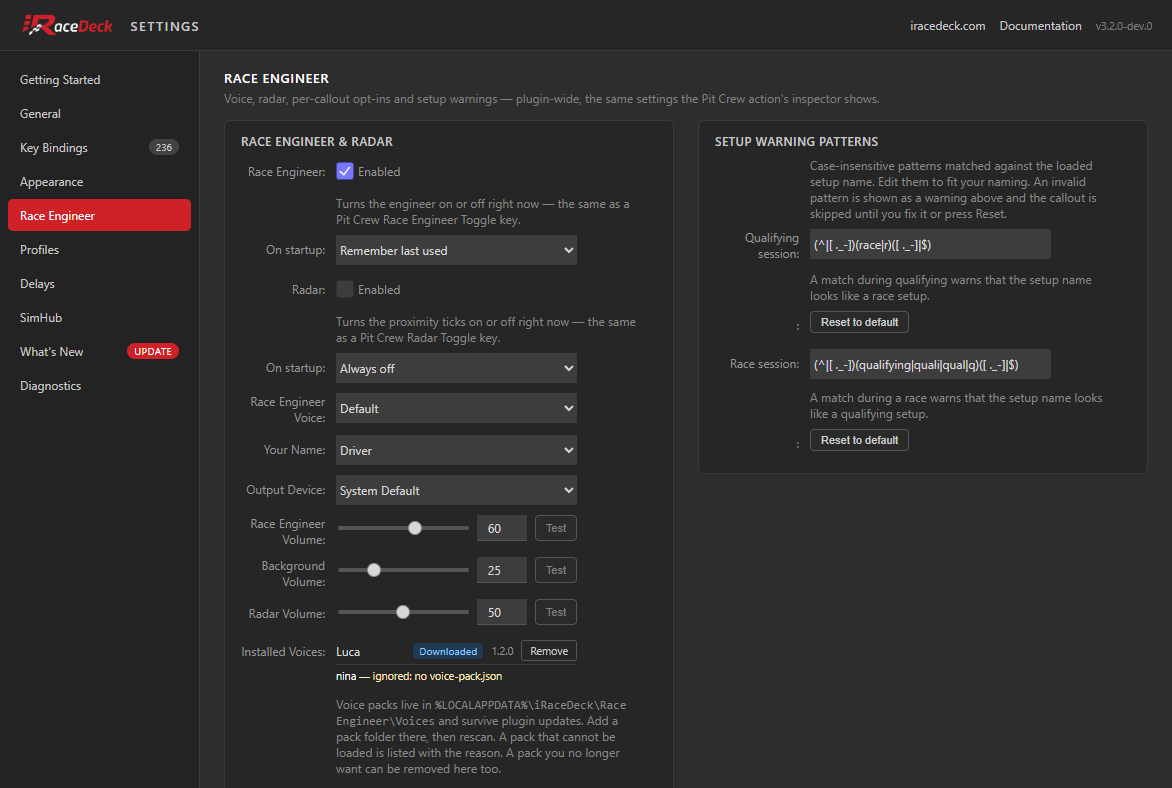
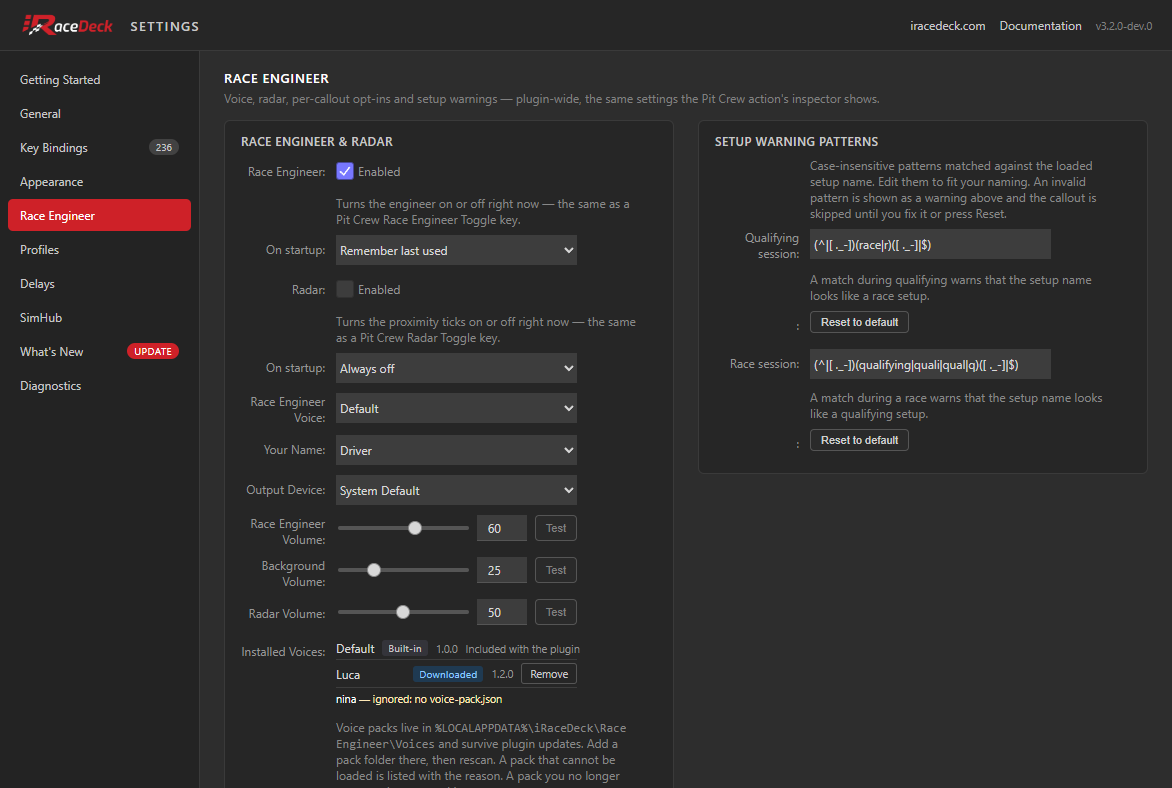
fix(voice-packs): one pack, one row — list the seeded voice and drop installed packs from the download list (#1100)
Two findings from Niklas's manual test, on the same card, fixed together
because they are the same defect seen from two sides: a pack could appear
twice, or not at all, and neither matched what the folder actually held.

THE SEEDED PACK WAS INVISIBLE. On every install the bundled `default` voice is
seeded into the packs folder, and the scanner then dropped it entirely: its one
voice belongs to the plugin's own audio, so `declared` came out empty and the
pack fell through `if (declared.length === 0) continue` — neither listed nor
reported. The card read "No voice packs installed" while the button beside it
opened a folder containing exactly that 8 MB pack. A user meets that
contradiction on their first screen, and the button is the one control
guaranteed to expose it.

It is listed now, with NO voices and NO clips. That is not a special case but
the plain reading of the field: `voices` is what a pack ACTUALLY provides after
collisions are resolved, and here the honest answer is nothing. An empty clip
list is inert rather than merely harmless — `normalizeRoots` turns it into an
empty allow-list, where an ABSENT list would have meant unrestricted.

LISTING A PACK AND CONTRIBUTING A VOICE ARE TWO DIFFERENT JOBS. `default` is
already in the voice dropdown from the bundle; registering it again would give
the user two identically named rows with nothing to tell them apart. Pinned by
a test rather than left to be noticed, and asserted against BOTH publishers'
[…]

Changed region(s): [[0.2765, 0.7919, 0.5529, 1.0]]

diff --git a/packages/pi-components/src/components/voice-pack-catalog.test.ts b/packages/pi-components/src/components/voice-pack-catalog.test.ts
@@ -83,18 +83,27 @@ describe("ird-voice-pack-catalog", () => {
       expect(el.querySelectorAll(".ird-vpc-row")).toHaveLength(0);
     });
 
-    it("renders one row per catalog entry", () => {
+    it("renders one row per catalog entry the user can act on", () => {
       const { el, mock } = mount();
 
       publish(
         mock,
         status({
           state: "ok",
-          packs: [offer({ id: "luca", label: "Luca" }), offer({ id: "nina", label: "Nina", verdict: "installed" })],
+          packs: [
+            offer({ id: "luca", label: "Luca" }),
+            offer({ id: "nina", label: "Nina", verdict: "update" }),
+            // Installed, and therefore listed under Installed Voices instead
+            // of here — one pack, one row (#1100).
+            offer({ id: "otto", label: "Otto", verdict: "installed" }),
+          ],
         }),
       );
 
       expect(el.querySelectorAll(".ird-vpc-row")).toHaveLength(2);
+      expect(el.textContent).toContain("Luca");
+      expect(el.textContent).toContain("Nina");
+      expect(el.textContent).not.toContain("Otto");
     });
   });
 
@@ -135,13 +144,59 @@ describe("ird-voice-pack-catalog", () => {
       expect(mock.send).toHaveBeenCalledWith("sendToPlugin", { event: "voicePackInstall", id: "luca" });
     });
 
-    it("shows no action for a pack that is already installed at this hash", () => {
+    // "Available to Download" lists what you can act on (#1100). An installed
+    // pack is represented under Installed Voices — with its provenance — so
+    // listing it here as well was the same pack twice on one card.
+    it("does not list a pack that is already installed at this hash", () => {
       const { el, mock } = mount();
 
       publish(mock, status({ state: "ok", packs: [offer({ verdict: "installed" })] }));
 
+      expect(el.querySelectorAll(".ird-vpc-row")).toHaveLength(0);
       expect(el.querySelector(".ird-vpc-button")).toBeNull();
-      expect(el.querySelector(".ird-vpc-installed")?.textContent).toBe("Installed");
+    });
+
+    // The whole catalog installed is the NORMAL state on a stage-2 install,
+    // where `default` is the only published pack — so it must not read as a
+    // fault. Distinct from both "we publish nothing" and the unreachable
+    // message, which are different conditions the user can also reach.
+    it("says the user has everything, rather than sounding like a failure, when every pack is installed", () => {
+      const { el, mock } = mount();
+
+      publish(mock, status({ state: "ok", packs: [offer({ verdict: "installed" })] }));
+
+      expect(el.textContent).toContain("You have every voice we publish");
+      expect(el.textContent).not.toContain("No downloadable voice packs");
+      expect(el.textContent).not.toContain("Couldn't check");
+    });
+
+    // The carve-out: the catalog is re-read after every install, so a verdict
+    // that flips to `installed` while the swap is still running must not take
+    // the row — and its progress, or its error and Retry — off the screen.
+    it("keeps an installed pack listed while its install is still in flight", () => {
+      const { el, mock } = mount();
+
+      publish(
+        mock,
+        status({ state: "ok", packs: [offer({ id: "luca", verdict: "installed" })] }, { luca: { phase: "swapping" } }),
+      );
+
+      expect(el.querySelectorAll(".ird-vpc-row")).toHaveLength(1);
+    });
+
+    it("keeps an installed pack listed when its install failed, so Retry survives", () => {
+      const { el, mock } = mount();
+
+      publish(
+        mock,
+        status(
+          { state: "ok", packs: [offer({ id: "luca", verdict: "installed" })] },
+          { luca: { phase: "failed", error: "boom" } },
+        ),
+      );
+
+      expect(el.querySelectorAll(".ird-vpc-row")).toHaveLength(1);
+      expect(el.textContent).toContain("Retry");
     });
 
     it("lists an unsupported pack with an explanation naming the version needed, rather than hiding it", () => {

diff --git a/packages/pi-components/src/components/voice-pack-catalog.ts b/packages/pi-components/src/components/voice-pack-catalog.ts
@@ -107,6 +107,39 @@ type VoicePackStatus = {
 
 const EMPTY_STATUS: VoicePackStatus = { catalog: { state: "unknown" }, installs: {} };
 
+/**
+ * What "Available to Download" lists: what the user can ACT on (#1100).
+ *
+ * `install`, `update` and `unsupported` stay; `installed` does not. The section
+ * used to list the whole catalog with a status attached, which is a different
+ * thing from what its name promises — and with the seeded `default` now listed
+ * under Installed Voices, an installed pack appeared in both places at once.
+ * One pack, one row, in the section that describes it.
+ *
+ * Deliberately a RENDER-layer rule, not a verdict change. The reasoning above
+ * `isProvidedByBundle` in deck-core — that a bundle-provided pack reads as
+ * `installed` rather than taking a verdict of its own, because a renderer that
+ * does not know a verdict drops the row — is about the verdict vocabulary and
+ * still holds. This filters what one surface shows; it does not touch what the
+ * plugin decided.
+ *
+ * `update` deliberately survives: a newer version genuinely is something to
+ * download, so the one case where an installed pack must stay visible is
+ * preserved by the rule itself rather than by an exception to it.
+ *
+ * An in-flight or failed install keeps its row whatever the verdict says. The
+ * catalog is re-read after every install, so a pack whose verdict flips to
+ * `installed` mid-swap would otherwise vanish and take its progress — or its
+ * error and Retry button — off the screen with it.
+ *
+ * Nothing here is special-cased to `default`, so stage 3 needs no edit: once
+ * nothing is bundled, that pack is either not installed (and appears as
+ * `install`) or installed (and appears under Installed Voices like any other).
+ */
+function isDownloadable(offer: VoicePackOffer, install: VoicePackInstallState | undefined): boolean {
+  return offer.verdict !== "installed" || install !== undefined;
+}
+
 function isRecord(value: unknown): value is Record<string, unknown> {
   return typeof value === "object" && value !== null;
 }
@@ -360,17 +393,28 @@ export class VoicePackCatalog extends HTMLElement {
       return;
     }
 
-    if (status.catalog.packs.length === 0) {
+    const offers = status.catalog.packs.filter((offer) => isDownloadable(offer, status.installs[offer.id]));
+
+    if (offers.length === 0) {
       const message = document.createElement("div");
 
       message.className = "ird-vpc-message";
-      message.textContent = "No downloadable voice packs right now.";
+      // THREE different empty states, deliberately worded apart, because the
+      // user can reach all three and they mean entirely different things. The
+      // "unknown" branch above says we could not check. These two say we did:
+      // either we publish nothing at all, or you already have all of it. Saying
+      // "nothing right now" to somebody who simply owns everything would read
+      // as a fault, which is the message directly above this one.
+      message.textContent =
+        status.catalog.packs.length === 0
+          ? "No downloadable voice packs right now."
+          : "You have every voice we publish.";
       this.list.appendChild(message);
 
       return;
     }
 
-    for (const offer of status.catalog.packs) {
+    for (const offer of offers) {
       this.list.appendChild(this.renderRow(offer, status.installs[offer.id]));
     }
   }

diff --git a/packages/deck-core/src/voice-pack-scanner.test.ts b/packages/deck-core/src/voice-pack-scanner.test.ts
@@ -1,5 +1,6 @@
 import { describe, expect, it } from "vitest";
 
+import { voiceDisplayLabels } from "./voice-labels.js";
 import { scanVoicePacks, type VoicePackFileSystem } from "./voice-pack-scanner.js";
 
 const ROOT = "/packs";
@@ -445,13 +446,51 @@ describe("scanVoicePacks and the bundled seed (#1100)", () => {
       fs: fakeFs({ default: { manifest: bundled, install, clips: ["voice/default/flags/blue-01.mp3"] } }),
     });
 
-  it("says nothing about a pack we seeded from the plugin's own bundle", () => {
+  it("lists the pack we seeded from the plugin's own bundle, providing nothing", () => {
     const result = scan(seedRecord);
 
-    // Still dropped — the bundle owns the id, and that was never in question.
-    expect(result.packs).toEqual([]);
+    // LISTED since #1100. It is on disk, and a card reading "No voice packs
+    // installed" beside a button that opens a folder containing exactly this
+    // pack was a contradiction the user met on their first screen. Its voice is
+    // still dropped — the bundle owns that id, and that was never in question —
+    // so it is listed as providing nothing, which is what `voices` means.
+    expect(result.packs).toHaveLength(1);
+    expect(result.packs[0]).toMatchObject({
+      id: "default",
+      label: "Default",
+      version: "3.2.0",
+      voices: [],
+      clips: [],
+      provenance: "bundled-seed",
+    });
     // The point of the exemption: no report, because nothing is wrong.
     expect(result.problems).toEqual([]);
+  });
+
+  // THE TRAP, pinned rather than left to be noticed later (#1100).
+  //
+  // `default` is ALREADY in the voice dropdown, provided by the plugin's own
+  // audio. Listing the seeded pack must not also register its voice, or the
+  // dropdown gains a SECOND "Default": two rows, one voice, and nothing for the
+  // user to tell them apart. Listing a pack and contributing a voice are two
+  // different jobs and this pack must only do the first.
+  //
+  // Asserted against BOTH publishers' actual inputs rather than against the
+  // scanner's output shape alone, because they derive differently and a change
+  // could break one without the other: `_voiceLabels` is built by
+  // `voiceDisplayLabels` from the installed packs — which now include this one,
+  // where they did not before — and `_raceEngineerVoices` is built from the
+  // clip paths packs contribute to the merged manifest.
+  it("contributes nothing to either published voice list", () => {
+    const result = scan(seedRecord);
+
+    // `_voiceLabels`: the seed is in this input now and must add no entry. A
+    // `default` key here would rename the bundled voice in the dropdown.
+    expect(voiceDisplayLabels(result.packs)).toEqual({});
+
+    // `_raceEngineerVoices`: derived from the clips packs contribute. One clip
+    // under `voice/default/` would put a second `default` in the list.
+    expect(result.packs.flatMap((pack) => pack.clips)).toEqual([]);
   });
 
   // The hostile cases, and the reason the exemption is written as narrowly as

diff --git a/packages/pi-components/src/components/voice-pack-list.ts b/packages/pi-components/src/components/voice-pack-list.ts
@@ -252,6 +252,9 @@ export class VoicePackList extends HTMLElement {
       ird-voice-pack-list .ird-vp-label { flex: 1; }
       ird-voice-pack-list .ird-vp-version { color: #969696; font-size: 8pt; }
       ird-voice-pack-list .ird-vp-empty { color: #969696; font-size: 9pt; padding: 3px 0; }
+      /* Stands where a Remove button would be on a bundled seed (#1100). Muted
+         and unclickable-looking on purpose: it is a statement, not a control. */
+      ird-voice-pack-list .ird-vp-note { flex: none; color: #969696; font-size: 8pt; }
       /* Provenance badge (#1100) — informational, not a warning: colours stay
          calm and distinct rather than using red/amber alarm colours anywhere. */
       ird-voice-pack-list .ird-vp-badge {
@@ -453,6 +456,13 @@ export class VoicePackList extends HTMLElement {
     // Only when the scan found nothing at all. A directory holding one
     // unloadable pack is not empty, and calling it empty would hide the very
     // row that explains the silence.
+    //
+    // Rarer since #1100 listed the bundled seed, but NOT dead, and the wording
+    // is still true wherever it shows. It is reached when the seed is genuinely
+    // absent: seeding failed (an unwritable folder), the user emptied the
+    // folder while the plugin was running, or — the case this is really waiting
+    // for — the release that stops bundling audio, after which a user who has
+    // downloaded nothing has an empty folder and should be told exactly that.
     if (scan.packs.length === 0 && scan.problems.length === 0) {
       const empty = document.createElement("div");
       empty.className = "ird-vp-empty";
@@ -477,6 +487,28 @@ export class VoicePackList extends HTMLElement {
       const version = document.createElement("span");
       version.className = "ird-vp-version";
       version.textContent = entry.version;
+
+      // A bundled seed gets no Remove, and what stands in its place is a
+      // STATEMENT rather than a disabled button (#1100). The plugin re-seeds
+      // this pack on the next start, so a Remove would delete the folder and
+      // then appear not to have worked — worse than no button at all. A
+      // DISABLED button would be worse again: it still invites the click and
+      // still has to explain itself, where a line of text simply answers the
+      // question a missing button raises.
+      if (entry.provenance === "bundled-seed") {
+        const note = document.createElement("span");
+
+        note.className = "ird-vp-note";
+        note.textContent = "Included with the plugin";
+
+        row.appendChild(label);
+        row.appendChild(badge);
+        row.appendChild(version);
+        row.appendChild(note);
+        this.list.appendChild(row);
+
+        continue;
+      }
 
       // Two-step, in the state-driven shape `ird-enable-feature` establishes:
       // the button renders the CURRENT state rather than firing and hoping. A

diff --git a/packages/pi-components/src/components/voice-pack-list.test.ts b/packages/pi-components/src/components/voice-pack-list.test.ts
@@ -503,6 +503,50 @@ describe("ird-voice-pack-list", () => {
     });
   });
 
+  // #1100. The seeded pack is LISTED so the card cannot read "No voice packs
+  // installed" while the button beside it opens a folder plainly containing it
+  // — but it is not a pack the user can remove.
+  describe("a bundled seed is listed and offers no Remove (#1100)", () => {
+    // No voices: the plugin's own audio provides `default`, so the pack
+    // contributes nothing. This is the shape the scanner now emits.
+    const seed = { id: "default", label: "Default", version: "1.0.0", voices: [], provenance: "bundled-seed" };
+
+    it("renders a row even though the pack provides no voices", () => {
+      publish(scan([seed]));
+
+      expect(el.querySelectorAll(".ird-vp-row")).toHaveLength(1);
+      expect(el.textContent).toContain("Default");
+      expect(el.textContent).not.toContain("No voice packs installed");
+    });
+
+    it("offers no Remove button on that row", () => {
+      publish(scan([seed]));
+
+      expect(el.querySelector(".ird-vp-remove-button")).toBeNull();
+    });
+
+    // A STATEMENT, not a disabled control. The plugin re-seeds this pack on the
+    // next start, so a Remove would delete the folder and then appear not to
+    // have worked — worse than no button. A disabled one would be worse again:
+    // it still invites the click and still has to explain itself.
+    it("says where the voice came from in place of the button", () => {
+      publish(scan([seed]));
+
+      expect(el.querySelector(".ird-vp-note")?.textContent).toBe("Included with the plugin");
+      expect(el.querySelector("button[disabled]")).toBeNull();
+    });
+
+    // The exemption must not reach a pack the user genuinely can remove.
+    it.each([["catalog"], ["sideload"]])("still offers Remove on a %s pack", (provenance) => {
+      publish(
+        scan([{ id: "luca", label: "Luca", version: "1.2.0", voices: [{ id: "luca", label: "Luca" }], provenance }]),
+      );
+
+      expect(el.querySelector(".ird-vp-remove-button")).not.toBeNull();
+      expect(el.querySelector(".ird-vp-note")).toBeNull();
+    });
+  });
+
   it("issues no extra settings read in response to a DOM event", () => {
     // A regression pin mirroring ird-enable-feature's: this component only
     // ever learns about settings through the useGlobalSettings push

diff --git a/packages/deck-core/src/voice-pack-scanner.ts b/packages/deck-core/src/voice-pack-scanner.ts
@@ -253,6 +253,48 @@ export function scanVoicePacks({ root, fs, reservedVoices }: ScanVoicePacksOptio
       return false;
     });
 
+    // A bundled seed provides nothing and is still LISTED (#1100).
+    //
+    // Every voice it declares belongs to the plugin's own audio, so `declared`
+    // is empty and the pack used to be skipped here — invisible, and reported
+    // as neither installed nor a problem. That produced a contradiction on the
+    // first screen a user sees: the card said "No voice packs installed" while
+    // the button beside it opened a folder containing exactly this pack. The
+    // pack is on disk; the card should say so.
+    //
+    // Listed with NO voices and NO clips, which is not a special case but the
+    // plain reading of the field: `voices` is what a pack ACTUALLY provides
+    // after collisions are resolved, and for this pack the honest answer is
+    // nothing. An empty `clips` list is inert downstream rather than merely
+    // harmless — `normalizeRoots` turns it into an empty allow-list, so the
+    // root can resolve nothing, where an ABSENT list would have meant
+    // unrestricted.
+    //
+    // LISTING A PACK AND CONTRIBUTING A VOICE ARE TWO DIFFERENT JOBS, and this
+    // pack does the first and must never do the second. `default` is already in
+    // the voice dropdown, provided by the bundle; registering it again here
+    // would put two identically named rows in front of the user with nothing to
+    // tell them apart. That is why the voices are dropped BEFORE this point and
+    // why nothing below re-adds them — and it is pinned by a test rather than
+    // left to be noticed.
+    //
+    // It claims no voice id either, so a later pack that genuinely provides one
+    // of these ids is not locked out by the seed's presence.
+    if (isBundledSeed && declared.length === 0) {
+      packs.push({
+        id: manifest.id,
+        label: manifest.label,
+        version: manifest.version,
+        ...(manifest.author === undefined ? {} : { author: manifest.author }),
+        dir,
+        voices: [],
+        clips: [],
+        provenance: "bundled-seed",
+      });
+
+      continue;
+    }
+
     if (declared.length === 0) continue;
 
     // Clip presence is checked PER VOICE, not per pack. A pack that declares a

diff --git a/packages/deck-core/src/voice-pack-installer.test.ts b/packages/deck-core/src/voice-pack-installer.test.ts
@@ -1429,11 +1429,16 @@ describe("createVoicePackInstaller — seed by copy", () => {
     await installer.seed();
 
     // With `default` bundled, the seeded copy loses the voice to the bundle —
-    // expected — and is reported as NOTHING, because its record says it is our
-    // own seed. A sideload claiming the same id would be reported.
+    // expected — and is reported as NO PROBLEM, because its record says it is
+    // our own seed. A sideload claiming the same id would be reported.
+    //
+    // It is still LISTED though (#1100), providing nothing: `voices` and
+    // `clips` both empty, so it appears on the Installed Voices card without
+    // putting a second `default` in the voice dropdown.
     const quiet = scanned(disk, ["default"]);
     expect(quiet.problems).toEqual([]);
-    expect(quiet.packs).toEqual([]);
+    expect(quiet.packs).toHaveLength(1);
+    expect(quiet.packs[0]).toMatchObject({ id: "default", voices: [], clips: [], provenance: "bundled-seed" });
 
     // Once the bundle is gone (the next release), the same copy is live.
     const live = scanned(disk, []);
